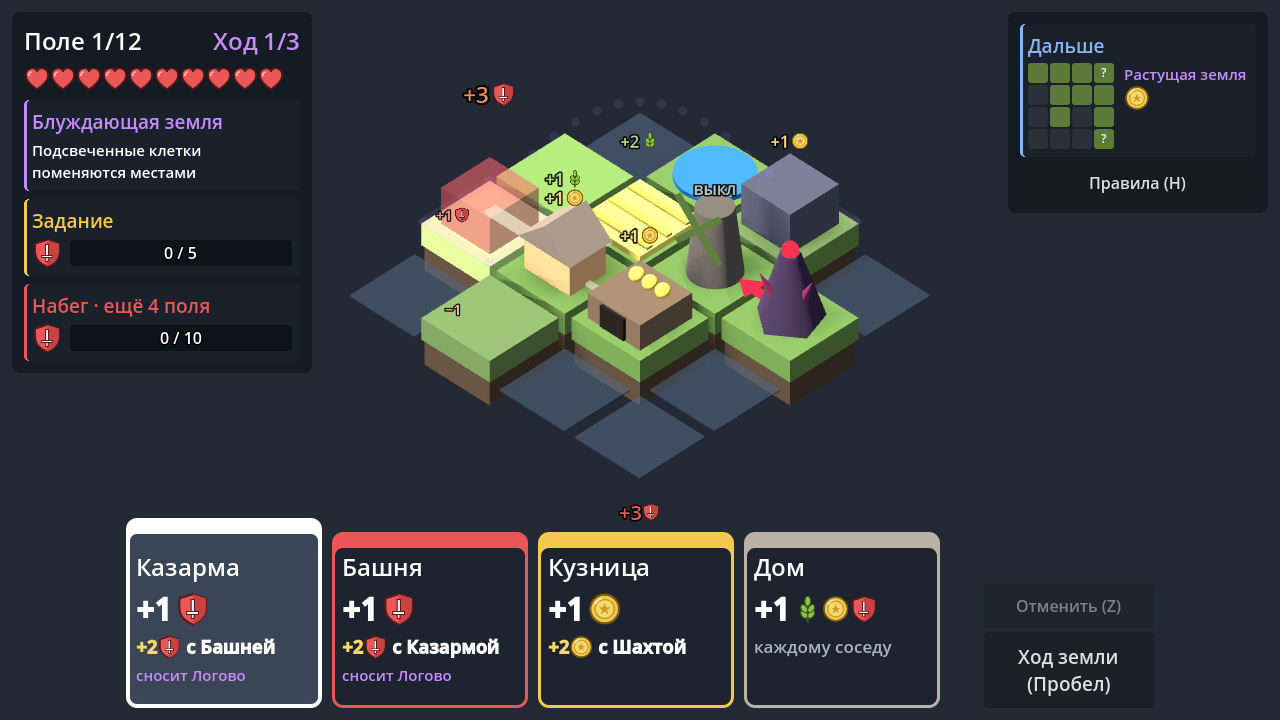
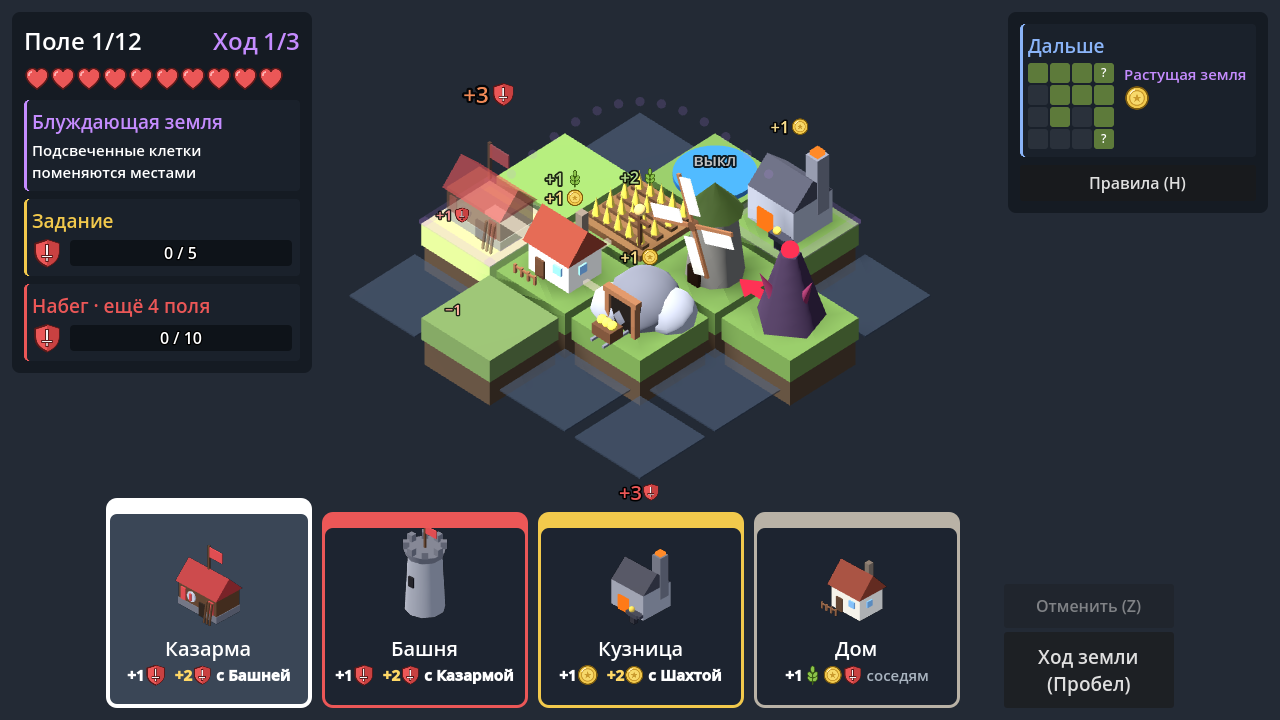
Узнаваемые low-poly модели зданий на острове и на картах
Поле с колосьями и пугалом, мельница с лопастями, шахта со входом и вагонеткой,
кузница с трубой и наковальней, казарма с флагом и щитом, башня с зубцами,
дом с трубой и окнами. Картинки на картах — рендер тех же моделей.

Claude-Session: https://claude.ai/code/session_01GWFi4cmEzcqoLhgq4Ji4Ad

diff --git a/README.md b/README.md
@@ -29,6 +29,8 @@
 - Наведите на здание — увидите, из чего сложился его доход. С выбранной картой над клеткой видно, сколько она даст и будет ли недовольство.
 - **1–4** — выбрать карту, **ПКМ/Esc** — снять выбор, **Z** — отменить постройку в этом ходу, **Пробел** — ход земли.
 
+Модели зданий собраны из простых фигур Godot в `scripts/view/models.gd` (сторонних ассетов нет). Картинки на картах — это те же модели, отрендеренные в маленьком окне, так что карта и остров всегда совпадают.
+
 ## Баланс живой земли без кода
 
 - `data/land/cards.json` — здания, препятствия, местность, стартовая колода.
